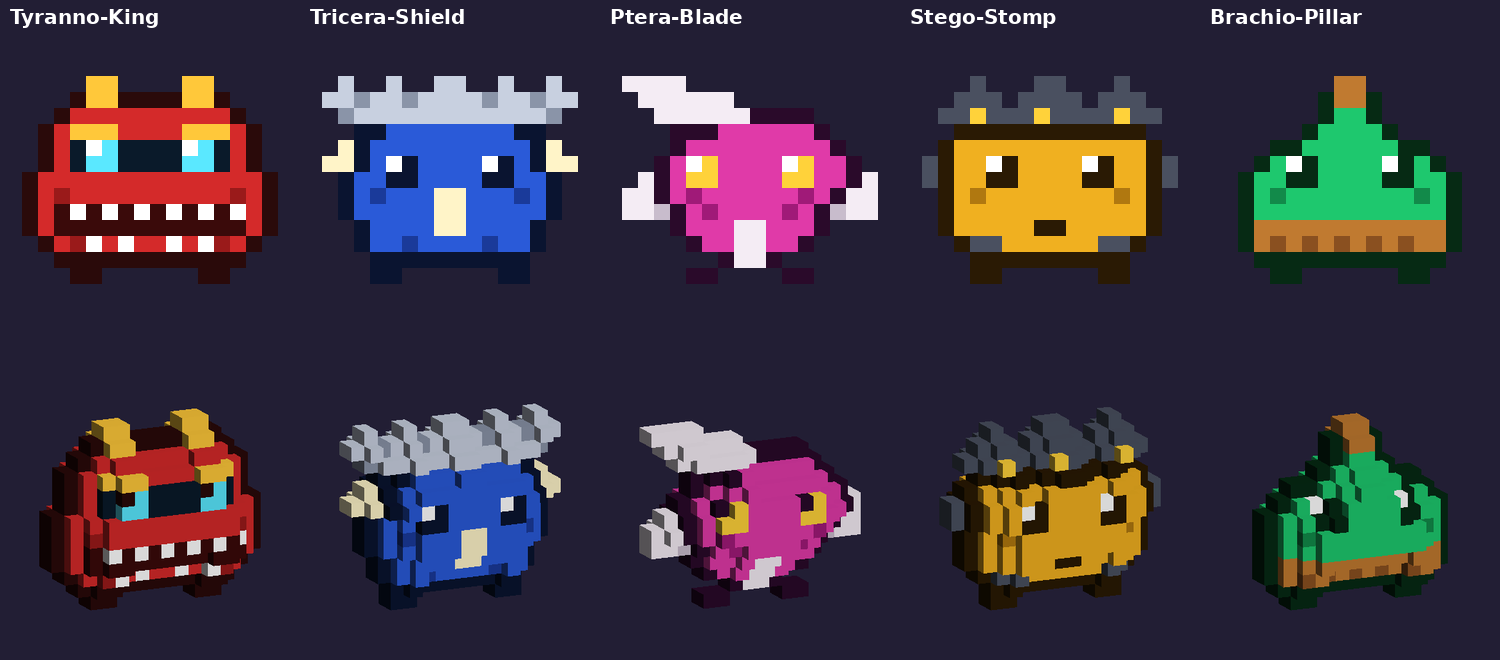
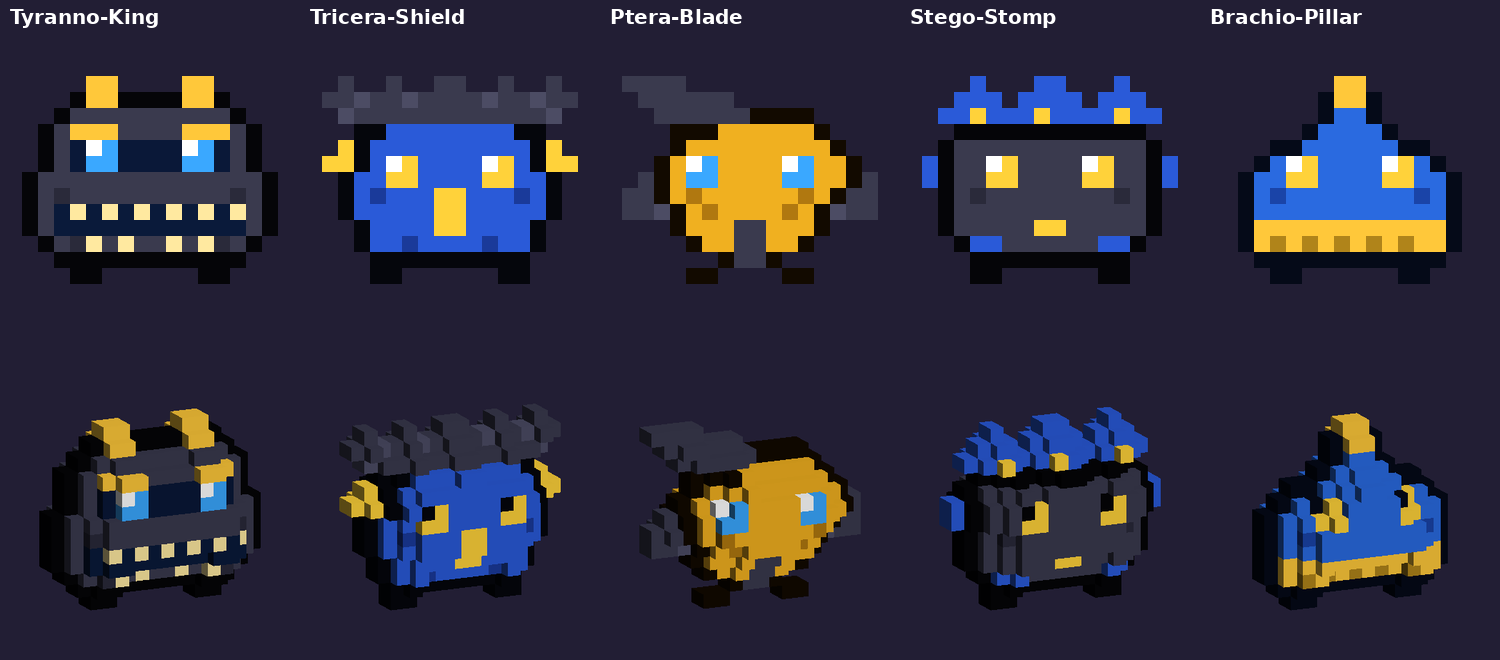
Fossil Squadron: gold, black and blue team colors
All five emblem Blips now share one gold / black (charcoal) / blue scheme, mixed differently per Blip: Tyranno-King
black & gold with a blue visor, Tricera-Shield blue with a black frill and gold horns, Ptera-Blade gold with a black
crest, Stego-Stomp black with blue & gold plates, Brachio-Pillar blue with gold crest and jaw armor. Plan updated.

Claude-Session: https://claude.ai/code/session_01PmzgbFANnQnt42wWbsr6rQ

diff --git a/merch/fossil-squad/PLAN.md b/merch/fossil-squad/PLAN.md
@@ -5,11 +5,11 @@ It's its own set, sold alongside Series 1.
 
 | Blip | Colors | Combiner part |
 |---|---|---|
-| Fossil-01 Tyranno-King | crimson red & gold, cyan visor eyes | torso + spring-loaded push-button head with a T-Rex crown crest |
-| Fossil-02 Tricera-Shield | cobalt blue & silver | left arm: triple-horn shield gauntlet |
-| Fossil-03 Ptera-Blade | magenta & pearl white | right arm: crest energy blade |
-| Fossil-04 Stego-Stomp | amber & gunmetal | left leg: dorsal-plate shin, flip-out foot |
-| Fossil-05 Brachio-Pillar | emerald & bronze | right leg: wide flip-out boot |
+| Fossil-01 Tyranno-King | black & gold, dark-blue visor with blue eyes | torso + spring-loaded push-button head with a T-Rex crown crest |
+| Fossil-02 Tricera-Shield | blue with a black frill & gold horns | left arm: triple-horn shield gauntlet |
+| Fossil-03 Ptera-Blade | gold with a black crest & blue eyes | right arm: crest energy blade |
+| Fossil-04 Stego-Stomp | black with blue & gold dorsal plates | left leg: dorsal-plate shin, flip-out foot |
+| Fossil-05 Brachio-Pillar | blue with a gold crest & jaw armor | right leg: wide flip-out boot |
 
 **Engineering:** only three skeletons are needed.
 - **Torso core:** the spring-loaded push-button head, shoulder ports, and outward-flaring hip ratchets.
@@ -21,8 +21,8 @@ Only the snap-on dino face panels differ between the two arms and between the tw
 ## Before release: naming and colors
 - **The combiner's name.** "Megazord" (and "Dino-Megazord", "Samurai Megazord") are trademarks of the Power Rangers
   franchise, so the combined robot needs an original name, for example "Apex Fossil Titan" or "Fossil Colossus".
-- **The colors.** A red T-Rex + blue Triceratops + pink Pterodactyl trio is the classic Power Rangers Dinozord
-  lineup. Changing one or two colors (for example Ptera-Blade in teal & pearl) keeps the set clearly Blipville's own.
+- **The colors: settled.** The whole squad shares one gold, black and blue team scheme, mixed differently on each Blip,
+  which keeps it clearly Blipville's own and not a red / blue / pink Dinozord look.
 
 ## Stages
 1. **The five Blips (in progress).**
